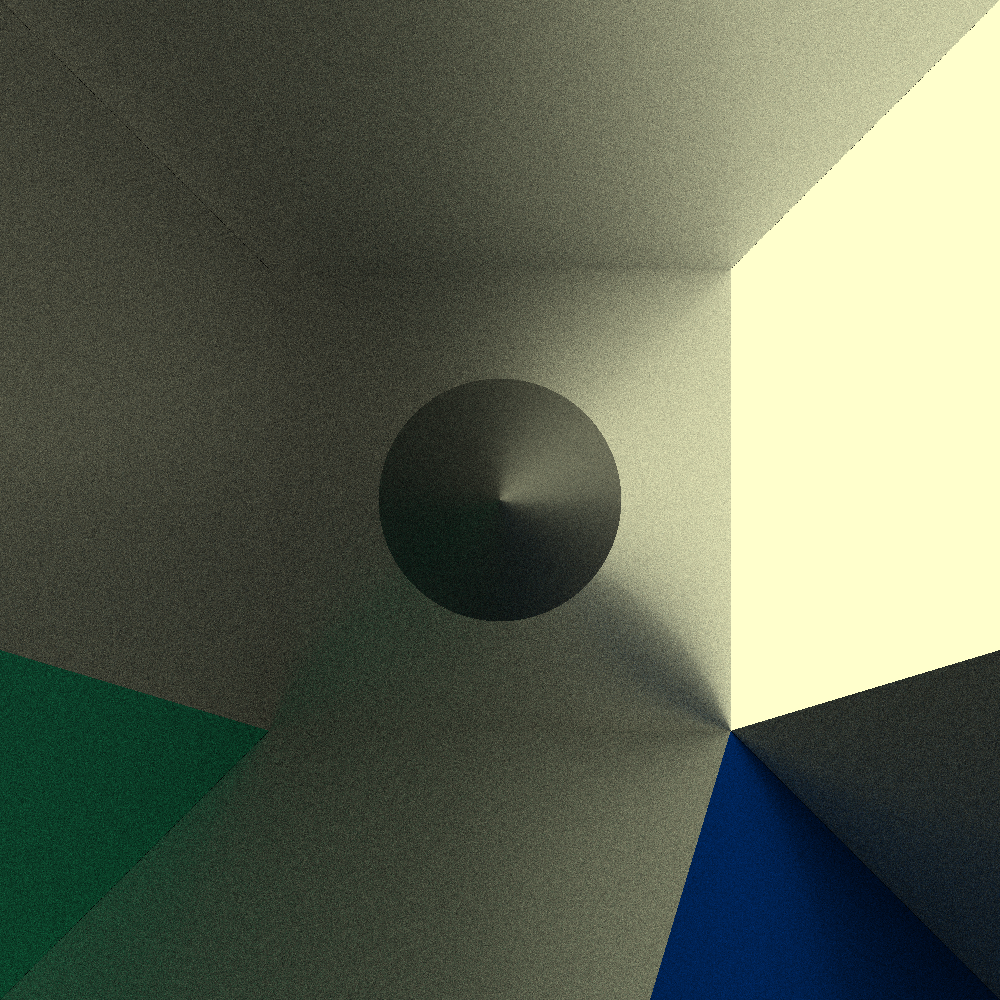
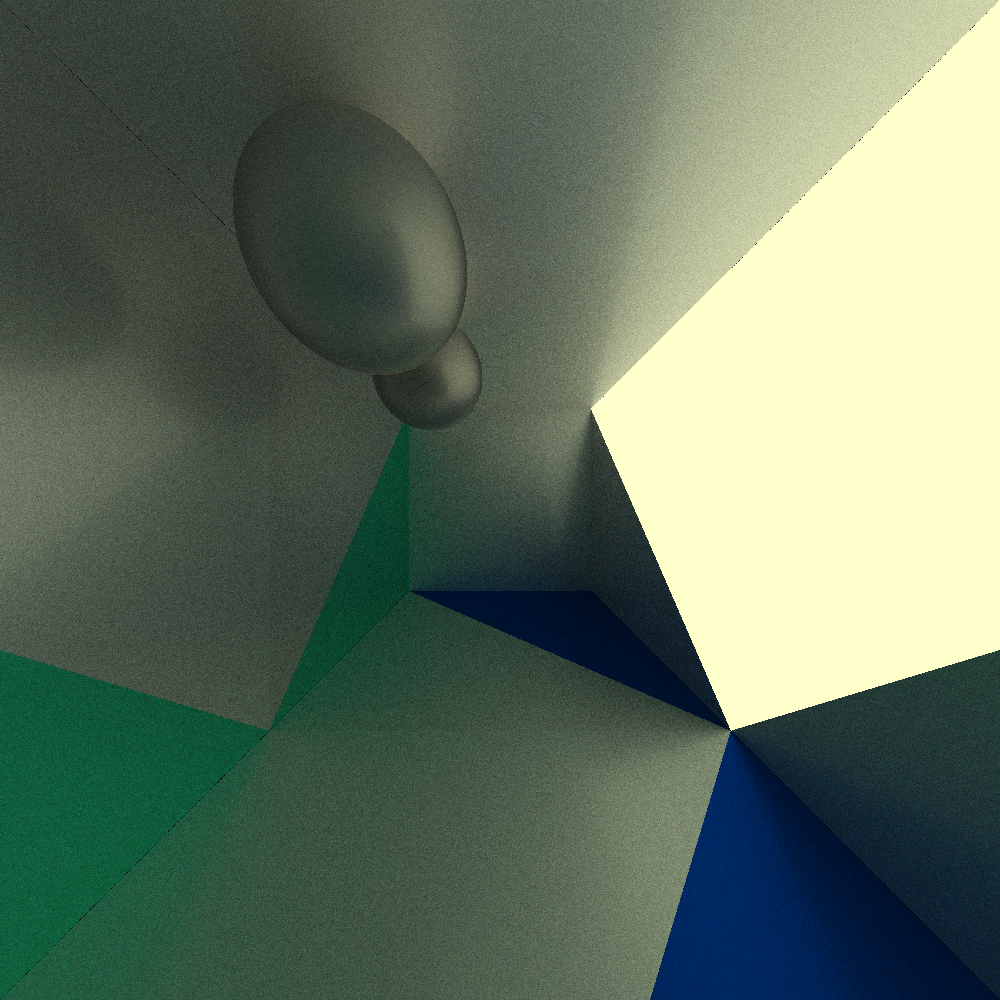
Modified Specular bounce to be formula calculated, not cross based. Looks great!

diff --git a/src/raylogic/raylogic.cc b/src/raylogic/raylogic.cc
@@ -10,6 +10,7 @@
 using Colours::BasicColour;
 using Vectors::Line;
 using Vectors::operator+;
+using Vectors::operator-;
 using Vectors::PI;
 
 // TODO: generate a program wide rand gen and device and pass it by ref
@@ -26,22 +27,31 @@ auto RayLogic::calculate_new_ray_direction(const Line<3, double> &ray,
   //
   // First confirm that the normal is the correct direction
   auto normal_clone = normal;
+  auto ray_clone = ray;
+
+  Vectors::normalise(ray_clone.second);
   Vectors::normalise(normal_clone);
 
-  auto ray_normal_dot = Vectors::dot(ray.second, normal_clone);
+  auto ray_normal_dot = Vectors::dot(ray_clone.second, normal_clone);
 
   if (ray_normal_dot >= 0) {
     normal_clone = Vectors::scale(normal_clone, -1.0);
   }
 
   // Perp to the incoming ray and the normal
-  auto ray_normal_cross = Vectors::cross(ray.second, normal_clone);
+  auto ray_normal_cross = Vectors::cross(ray_clone.second, normal_clone);
 
   // Perp to the normal and the previous result - this will lie in the same 2d
   // place as the incoming ray and the normal
   auto horizontal = Vectors::cross(normal_clone, ray_normal_cross);
+
   // The perfect specular ray
-  auto specular_bounce_dir = Vectors::cross(ray.second, ray_normal_cross);
+  // - auto specular_bounce_dir = Vectors::cross(ray_clone.second,
+  // ray_normal_cross);
+  auto specular_bounce_dir =
+      ray_clone.second -
+      Vectors::scale(normal_clone,
+                     2 * Vectors::dot(ray_clone.second, normal_clone));
 
   // Confirm the ray is actually bouncing away from the object
   if (Vectors::dot(specular_bounce_dir, normal_clone) < 0) {

diff --git a/src/main.cpp b/src/main.cpp
@@ -48,7 +48,7 @@ auto main() -> int {
   //
   auto scene_objects = SceneObjects();
 
-  scene_objects.add_sphere(Sphere({0.0, 0.0, 500.0}, 300.0,
+  scene_objects.add_sphere(Sphere({-400.0, -700.0, 600.0}, 300.0,
                                   {0.7, 0.7, 0.7, 0.0, 0.0, 0.0, 0.0, 0.0}));
 
   scene_objects.add_cuboid(
@@ -64,8 +64,8 @@ auto main() -> int {
       {0.0, 0.0, 0.0, 1.0, 1.0, 0.8, 1.0, 0.0},
       {1.0, 1.0, 1.0, 0.0, 0.0, 0.0, 0.0, 0.0},
       {1.0, 1.0, 1.0, 0.0, 0.0, 0.0, 0.0, 0.0},
-      {1.0, 1.0, 1.0, 0.0, 0.0, 0.0, 0.0, 0.0},
-      {1.0, 1.0, 1.0, 0.0, 0.0, 0.0, 0.0, 0.0},
+      {1.0, 1.0, 1.0, 0.0, 0.0, 0.0, 0.0, 1.0},
+      {1.0, 1.0, 1.0, 0.0, 0.0, 0.0, 0.0, 1.0},
       {0.0, 0.3, 0.9, 0.0, 0.0, 0.0, 0.0, 0.0},
       {1.0, 1.0, 1.0, 0.0, 0.0, 0.0, 0.0, 0.0});
 

diff --git a/src/window/screen.cc b/src/window/screen.cc
@@ -58,7 +58,7 @@ auto Screen_SFML::init(std::mt19937 &rand_gen) -> bool {
                        {0.0, 0.0, 0.0});
   camera.populate_pixel_directions();
   // Call the raytracer method here
-  render(16, camera, 100, 5, rand_gen);
+  render(16, camera, 200, 8, rand_gen);
 
   if (((*pixel_map).copyToImage()).saveToFile("OutputScene.png")) {
     std::cout << "Saved to file: OutputScene.png" << std::endl;
